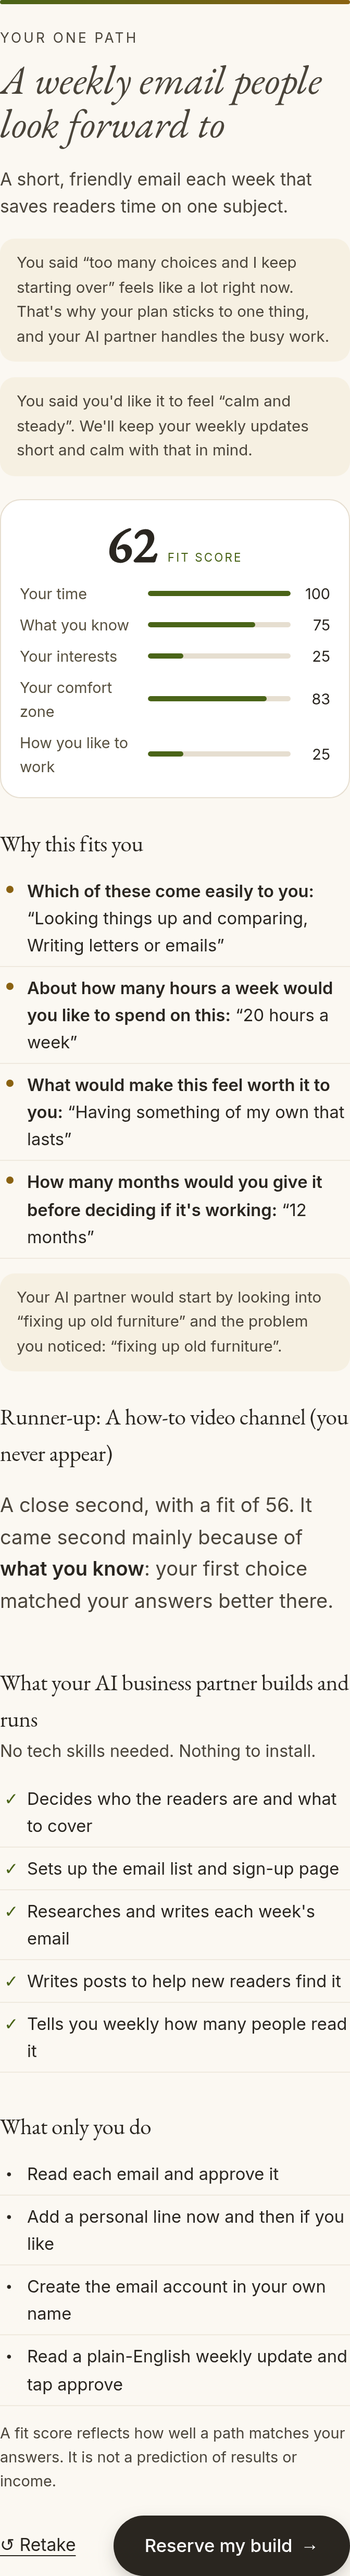
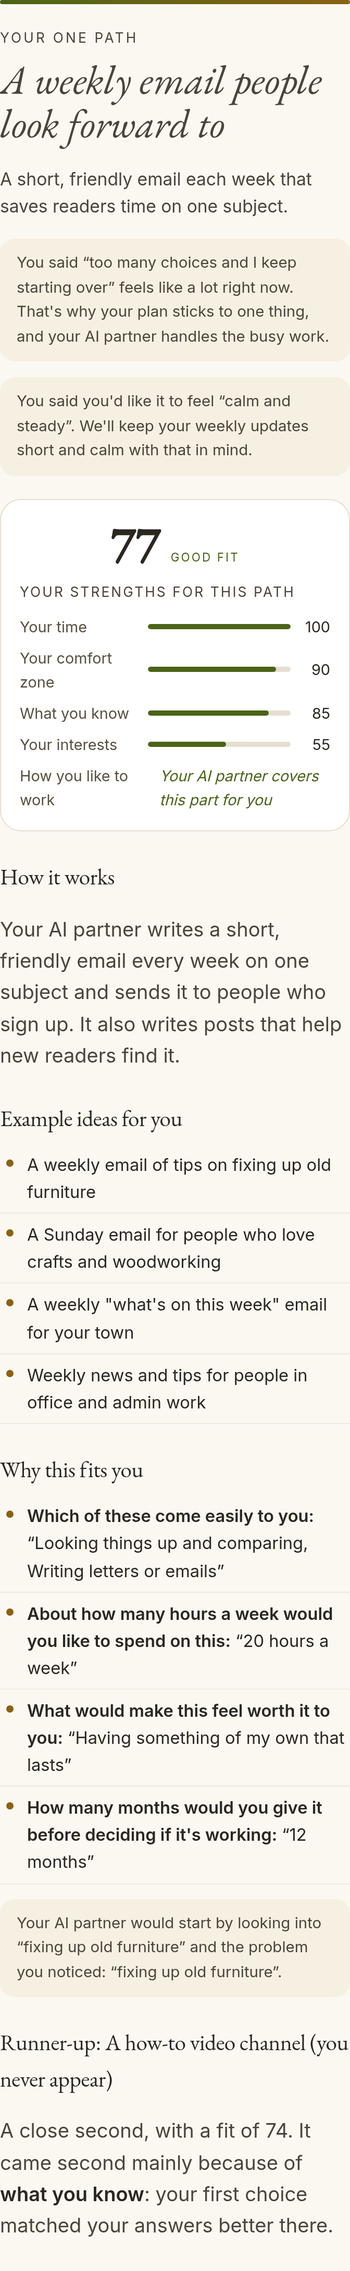
Result: strengths framing, how it works, personalized ideas, revenue streams, milestone roadmap

diff --git a/app.js b/app.js
@@ -67,7 +67,7 @@ function contrib(q,val){ // returns {path:pts} and label
  if(q.t==="multi"){const o={};(val||[]).forEach(k=>{for(const[p,v]of Object.entries(q.o[k][1]))o[p]=Math.min(3,(o[p]||0)+v)});return o}
  return {}}
 function maxFor(q,p){if(q.t==="slider")return Math.max(q.lo[p]||0,q.hi[p]||0);if(q.t==="single")return Math.max(0,...q.o.map(o=>o[1][p]||0));if(q.t==="multi")return Math.min(3,q.o.reduce((s,o)=>s+(o[1][p]||0),0));return 0}
-function label(q,val){if(q.t==="slider")return val+" "+q.unit;if(q.t==="single")return q.o[val][0];if(q.t==="multi")return (val||[]).map(k=>q.o[k][0]).join(", ");return val}
+function label(q,val){if(q.t==="slider")return val+" "+(val===1?q.unit.replace("hours","hour").replace("months","month"):q.unit);if(q.t==="single")return q.o[val][0];if(q.t==="multi")return (val||[]).map(k=>q.o[k][0]).join(", ");return val}
 
 function score(){const tot={},dim={},log={};ORDER.forEach(p=>{tot[p]=0;dim[p]=SECTIONS.map(()=>[0,0]);log[p]=[]});
  Q.forEach(q=>{const v=st.a[q.id];const c=contrib(q,v);ORDER.forEach(p=>{const m=maxFor(q,p);dim[p][q.s][1]+=m;const g=c[p]||0;dim[p][q.s][0]+=g;tot[p]+=g;if(g>0&&q.t!=="text")log[p].push([g,q,v])})});
@@ -110,9 +110,64 @@ function story(){rEl.hidden=true;qEl.hidden=false;const s=st.story||{};
  const fin=skip=>{st.story=skip?{}:read();const filled=Object.keys(st.story).length>0;gc(filled?"story-filled":"story-skipped",filled?"Story filled":"Story skipped");st.storyDone=true;save();render();document.getElementById("quiz").scrollIntoView({behavior:"smooth",block:"start"})};
  document.getElementById("skip").onclick=()=>fin(true);document.getElementById("see").onclick=()=>fin(false)}
 const snip=t=>{t=t.replace(/\s+/g," ").trim();const w=t.split(" ");return w.length>12?w.slice(0,12).join(" ")+"…":t};
+// ---- richer result content ----
+const HOBBY=["gardening","home cooking and baking","crafts and woodworking","travel","fishing and the outdoors","pets","history and books","family life"];
+const CAREER=["office and admin work","healthcare and caregiving","teaching","the trades","sales and customer service","security and public service","running a small business",null];
+const clip=t=>{t=(t||"").replace(/\s+/g," ").trim().replace(/[.!?]+$/,"");if(t.length>50)t=t.slice(0,50).replace(/\s\S*$/,"")+"…";return t?t.charAt(0).toLowerCase()+t.slice(1):""};
+function ctx(){const a=st.a;return{t:clip(a.askedfor),p:clip(a.problem),h:(a.hobbies||[]).map(k=>HOBBY[k]),c:a.career!=null?CAREER[a.career]:null,local:a.local===0||a.local===1}}
+const IDEAS={
+ dir:[c=>c.t&&`A friendly guide to ${c.t}`,c=>c.h[0]&&`A guide to the best ${c.h[0]} spots and gear around your area`,c=>c.p&&`An honest guide that helps with this: ${c.p}`,c=>c.local&&`A guide to trusted local services in your town`,c=>c.c&&`A resource guide for people working in ${c.c}`,
+  ()=>"A guide to the best fishing spots around your area",()=>"Medicare made simple for first-timers",()=>"Home repair help for older homes",()=>"The best tools for new gardeners"],
+ dig:[c=>c.t&&`A simple step-by-step checklist for ${c.t}`,c=>c.h[0]&&`Printable planners for ${c.h[0]}`,c=>c.c&&`Ready-to-use templates for people in ${c.c}`,c=>c.p&&`A downloadable guide that helps with: ${c.p}`,
+  ()=>"A retirement paperwork checklist",()=>"A printable meal planner for two",()=>"A home maintenance calendar for every season"],
+ news:[c=>c.t&&`A weekly email of tips on ${c.t}`,c=>c.h[0]&&`A Sunday email for people who love ${c.h[0]}`,c=>c.local&&`A weekly "what's on this week" email for your town`,c=>c.c&&`Weekly news and tips for people in ${c.c}`,
+  ()=>"A season-by-season garden email",()=>"A local history story every week",()=>"Weekly tips for getting the most out of retirement"],
+ face:[c=>c.t&&`Short how-to videos about ${c.t}`,c=>c.h[0]&&`Calm explainer videos about ${c.h[0]}`,c=>c.c&&`Story videos: what years in ${c.c} teach you`,c=>c.p&&`Videos that answer this common problem: ${c.p}`,
+  ()=>"Easy home fixes, explained step by step",()=>"History stories in five minutes",()=>"Beginner gardening tips"],
+ tool:[c=>c.t&&`A simple online helper for ${c.t}`,c=>c.p&&`A small tool that helps with: ${c.p}`,c=>c.c&&`A handy checklist maker for people in ${c.c}`,c=>c.h[0]&&`A planner tool for ${c.h[0]}`,
+  ()=>"A 'how much paint do I need' calculator",()=>"A medication schedule maker",()=>"A garden planting-date finder"],
+ lead:[c=>c.local&&`A "find a trusted handyman" site for your town`,c=>c.p&&`A local site that helps with: ${c.p}`,c=>c.h[0]&&`A local finder for ${c.h[0]} shops and services`,c=>c.c==="the trades"&&`A local site for the trade you know best`,
+  ()=>"Find a reliable pet sitter in your area",()=>"Trusted roofers and gutter cleaners near you",()=>"A local lawn care finder"],
+ prod:[c=>c.t&&`A done-for-you service helping people with ${c.t}`,c=>c.c&&`A service built on your experience in ${c.c}`,c=>c.p&&`A service that takes this off people's plates: ${c.p}`,
+  ()=>"Resume refresh for people changing careers",()=>"Writing online listings for local shops",()=>"Family history write-ups"],
+ crea:[c=>c.t&&`Short videos sharing your know-how on ${c.t}`,c=>c.h[0]&&`A friendly "${c.h[0]} with me" video series`,c=>c.c&&`Stories and lessons from your years in ${c.c}`,
+  ()=>"Classic recipes in one minute",()=>"Tips from a lifetime of fixing things",()=>"Gardening through the seasons"],
+ comm:[c=>c.c&&`A club for people who worked in ${c.c}`,c=>c.t&&`A members' group learning about ${c.t} together`,c=>c.h[0]&&`A ${c.h[0]} club with weekly topics`,
+  ()=>"A club for new retirees finding their rhythm",()=>"A support circle for family caregivers",()=>"A morning group for small business owners"]};
+function ideasFor(p){const c=ctx(),out=[];for(const f of IDEAS[p]){const v=f(c);if(v&&!out.includes(v))out.push(v);if(out.length>=4)break}return out}
+const MORE={
+ dir:{how:"Your AI partner builds a website that answers the questions people search for on one topic, like which tools to buy or which local services to trust. It adds helpful pages every week so more people find it on Google over time.",
+  money:[["Display ads","Small ads shown on your pages. Ad networks pay based on how many people visit."],["Affiliate links","When a reader buys something you recommend through your link, the store pays a small commission."],["Featured listings","Local businesses pay to be highlighted at the top of a page."],["A paid downloadable guide","A deeper guide readers can buy and download."]],
+  road:[["Month 1","Your AI partner picks the topic, builds the site and publishes the first 20 pages."],["Months 2–3","50+ pages, an email sign-up, and the first visitors from Google."],["Months 4–6","First ad or affiliate income becomes possible. First outreach to local sponsors."],["Months 7–12","Grow the pages that work best, and possibly add a paid guide."]]},
+ dig:{how:"Your AI partner creates a simple download, like a checklist or planner, that solves one problem people already look for help with. It sets up a small shop page and tells people about it.",
+  money:[["Product sales","People pay once and download the file right away."],["Bundles","Several related downloads sold together."],["Custom versions","A personalized version for people who want extra help."],["Affiliate links","Recommending related tools and earning a small commission."]],
+  road:[["Month 1","Topic chosen, first download written and designed, shop page live."],["Months 2–3","Two or three more products, an email list, first visitors."],["Months 4–6","First sales possible. Improve the products people look at most."],["Months 7–12","Bundles, more products, and sharing in more places."]]},
+ news:{how:"Your AI partner writes a short, friendly email every week on one subject and sends it to people who sign up. It also writes posts that help new readers find it.",
+  money:[["Sponsorships","A business pays to be mentioned in your email."],["A paid edition","Readers who want extra pay a small monthly fee."],["Affiliate recommendations","A small commission when readers buy something you suggest."],["Classified ads","Small paid notices from readers or local businesses."]],
+  road:[["Month 1","Topic and reader chosen, sign-up page live, first four emails sent."],["Months 2–3","A steady weekly rhythm and the first hundred readers is the goal."],["Months 4–6","First sponsor conversations become possible as readers grow."],["Months 7–12","Grow the reader list and possibly add a paid edition."]]},
+ face:{how:"Your AI partner writes and makes short videos with a narrator voice and pictures, so you never need to appear. It uploads them on a schedule and learns from what people watch.",
+  money:[["Platform ad share","Video sites share ad money with channels once they qualify."],["Sponsorships","Companies pay for a short mention in a video."],["Affiliate links","Links in the description earn a commission on purchases."],["A paid guide","A deeper guide or class viewers can buy."]],
+  road:[["Month 1","Channel set up, first 8 videos published."],["Months 2–3","30+ videos and the first subscribers."],["Months 4–6","Focus on the topics people watch most. Affiliate income possible."],["Months 7–12","Possibly qualify for the platform's ad sharing, and approach sponsors."]]},
+ tool:{how:"Your AI partner builds a small, easy web page that does one handy job, like a calculator or a schedule maker. It keeps it running and improves it based on how people use it.",
+  money:[["Extra features","Free to use, with a small fee for extras."],["One-time unlock","Pay once for the full version."],["Ads","Small ads on the tool's page."],["Affiliate links","Recommending related products people need next."]],
+  road:[["Month 1","Idea checked, first version built and online."],["Months 2–3","Improvements from feedback, a welcome page, first users."],["Months 4–6","A paid extra or unlock becomes possible."],["Months 7–12","Grow what people use most, possibly add a second tool."]]},
+ lead:{how:"Your AI partner builds a website for your area that helps people find a trusted local service. When someone asks for help, the request goes to a good local business.",
+  money:[["Pay per request","Local businesses pay for each customer request they receive."],["Featured spot","A business pays monthly to be the top recommendation."],["Renting the site","One business pays to have the whole site send requests to them."]],
+  road:[["Month 1","Service and town chosen, site built, request form live."],["Months 2–3","Local pages, map listings, first requests start to come in."],["Months 4–6","First conversations with local businesses about paying for requests."],["Months 7–12","Add nearby towns or a second service."]]},
+ prod:{how:"You offer one clear service based on what you know, at one set price. Your AI partner builds the order page, drafts the work, and you check it before it goes out.",
+  money:[["Per-order price","Customers pay a set price for each job."],["Packages","A bundle of several jobs at once."],["Repeat clients","Some customers come back every month."]],
+  road:[["Month 1","Service shaped and priced, order page live."],["Months 2–3","First orders possible. Improve the process with each one."],["Months 4–6","Add a package, collect kind words from happy customers."],["Months 7–12","Grow through referrals and a second related service."]]},
+ crea:{how:"You record short clips on your phone, and your AI partner writes the words, edits the videos and posts them. Over time people who like your style follow along.",
+  money:[["Creator programs","Some platforms share money with creators once they qualify."],["Brand sponsorships","Companies pay you to mention their product."],["A simple paid offer","A guide or class for followers who want more."],["Affiliate links","A small commission on things you recommend."]],
+  road:[["Month 1","Topics planned, first 10 short videos posted."],["Months 2–3","A steady posting rhythm and first followers."],["Months 4–6","A simple paid guide or class becomes possible."],["Months 7–12","Grow on one platform and possibly talk to sponsors."]]},
+ comm:{how:"Your AI partner sets up a friendly online group for people in one situation you understand. It writes weekly topics and welcomes new members, and you pop in to say hello.",
+  money:[["Monthly membership","Members pay a small monthly fee to belong."],["Workshops","Paid sessions on one topic."],["Sponsors","A business that serves your members pays to support the group."]],
+  road:[["Month 1","Theme chosen, club set up, first weekly topics ready."],["Months 2–3","First members invited, a weekly routine in place."],["Months 4–6","A paid membership becomes possible once people find it useful."],["Months 7–12","Add workshops and grow by word of mouth."]]}};
+const shown=x=>Math.round(40+0.6*x);
+const fitLabel=x=>x>=80?"Strong fit":x>=65?"Good fit":"Promising fit";
 
 function done(){
- const{ranked,log}=score(),w=ranked[0],ru=ranked[1],P=PATHS[w.p],R=PATHS[ru.p];
+ const{ranked,log}=score(),w=ranked[0],ru=ranked[1],P=PATHS[w.p],R=PATHS[ru.p],M=MORE[w.p];
  const reasons=log[w.p].sort((a,b)=>b[0]-a[0]).slice(0,4).map(([g,q,v])=>`<li><b>${esc(q.q.replace(/[?.…]+$/,""))}:</b> “${esc(label(q,v))}”</li>`).join("");
  const gaps=SECTIONS.map((s,i)=>[s,w.d[i]-ru.d[i]]).sort((a,b)=>b[1]-a[1])[0];
  const topic=st.a.askedfor,prob=st.a.problem;
@@ -122,9 +177,15 @@ function done(){
  document.getElementById("wlv").value=w.p;
  rEl.innerHTML=`<div class="bar"><i style="width:100%"></i></div><p class="prog">Your one path</p>
  <p class="verdict">${P.name}</p><p class="lede">${P.line}</p>${refl}
- <div class="fit"><div class="fitnum"><b>${w.fit}</b><span>fit score</span></div><div class="dims">${SECTIONS.map((s,i)=>`<div class="dim"><span>${s}</span><div class="track"><i style="width:${w.d[i]}%"></i></div><em>${w.d[i]}</em></div>`).join("")}</div></div>
+ <div class="fit"><div class="fitnum"><b>${shown(w.fit)}</b><span>${fitLabel(shown(w.fit))}</span></div><div class="dims"><p class="dh">Your strengths for this path</p>${SECTIONS.map((s,i)=>[s,w.d[i]]).sort((x,y)=>y[1]-x[1]).map(([s,v],j,arr)=>j===arr.length-1?`<div class="dim covered"><span>${s}</span><em class="cov">Your AI partner covers this part for you</em></div>`:`<div class="dim"><span>${s}</span><div class="track"><i style="width:${shown(v)}%"></i></div><em>${shown(v)}</em></div>`).join("")}</div></div>
+ <h3>How it works</h3><p>${M.how}</p>
+ <h3>Example ideas for you</h3><ul class="why">${ideasFor(w.p).map(x=>`<li>${esc(x)}</li>`).join("")}</ul>
  <h3>Why this fits you</h3><ul class="why">${reasons}</ul>${nicheLine}
- <h3>Runner-up: ${R.name}</h3><p class="mute">A close second, with a fit of ${ru.fit}. It came second mainly because of <b>${gaps[0].toLowerCase()}</b>: your first choice matched your answers better there.</p>
+ <h3>Runner-up: ${R.name}</h3><p class="mute">A close second, with a fit of ${shown(ru.fit)}. It came second mainly because of <b>${gaps[0].toLowerCase()}</b>: your first choice matched your answers better there.</p>
+ <h3>How it can make money</h3><ul class="money">${M.money.map(([n,d])=>`<li><b>${n}</b><span>${d}</span></li>`).join("")}</ul>
+ <p class="warn">Honest note: results vary a lot. Many new online projects earn nothing for months, and some never do. We don't promise or predict any income.</p>
+ <h3>Your 6 to 12 month roadmap</h3><ol class="road">${M.road.map(([t,d])=>`<li><b>${t}</b><span>${d}</span></li>`).join("")}</ol>
+ <p class="fine">Milestones are possible goals, not promises. Timing depends on your topic and effort.</p>
  <div class="split"><div><h3>What your AI business partner builds and runs</h3><p class="hint">No tech skills needed. Nothing to install.</p><ul class="tick">${P.builds.map(x=>`<li>${x}</li>`).join("")}</ul></div>
  <div><h3>What only you do</h3><ul class="you">${P.you.map(x=>`<li>${x}</li>`).join("")}<li>Read a plain-English weekly update and tap approve</li></ul></div></div>
  <p class="fine">A fit score reflects how well a path matches your answers. It is not a prediction of results or income.</p>

diff --git a/style.css b/style.css
@@ -98,3 +98,10 @@ footer{font-size:.9rem}.how p{font-size:1.02rem}
 .two{display:flex;gap:10px;flex-wrap:wrap;justify-content:flex-end}
 .back{white-space:nowrap}
 @media(max-width:759px){.story-nav{flex-direction:column-reverse;align-items:stretch}.story-nav .two{flex-direction:column-reverse}.story-nav .btn{justify-content:center;width:100%}}
+.dh{margin:0 0 4px;font-size:.82rem;letter-spacing:.12em;text-transform:uppercase;color:var(--olive)}
+.dim.covered{grid-template-columns:1fr 1.3fr}.cov{font-style:italic!important;text-align:left!important;color:var(--olive)!important}
+.money,.road{list-style:none;padding:0;margin:0;display:grid;gap:10px}
+.money li,.road li{background:#fff;border:1px solid var(--line);border-radius:16px;padding:14px 18px;display:grid;gap:2px}
+.money b,.road b{font-weight:600}.money span,.road span{color:var(--mute);font-size:.98rem}
+.road{counter-reset:r}.road li{border-left:4px solid var(--olive)}
+.warn{background:#F6F0E2;border-radius:14px;padding:12px 16px;font-size:.95rem;color:var(--ink);margin-top:12px}
